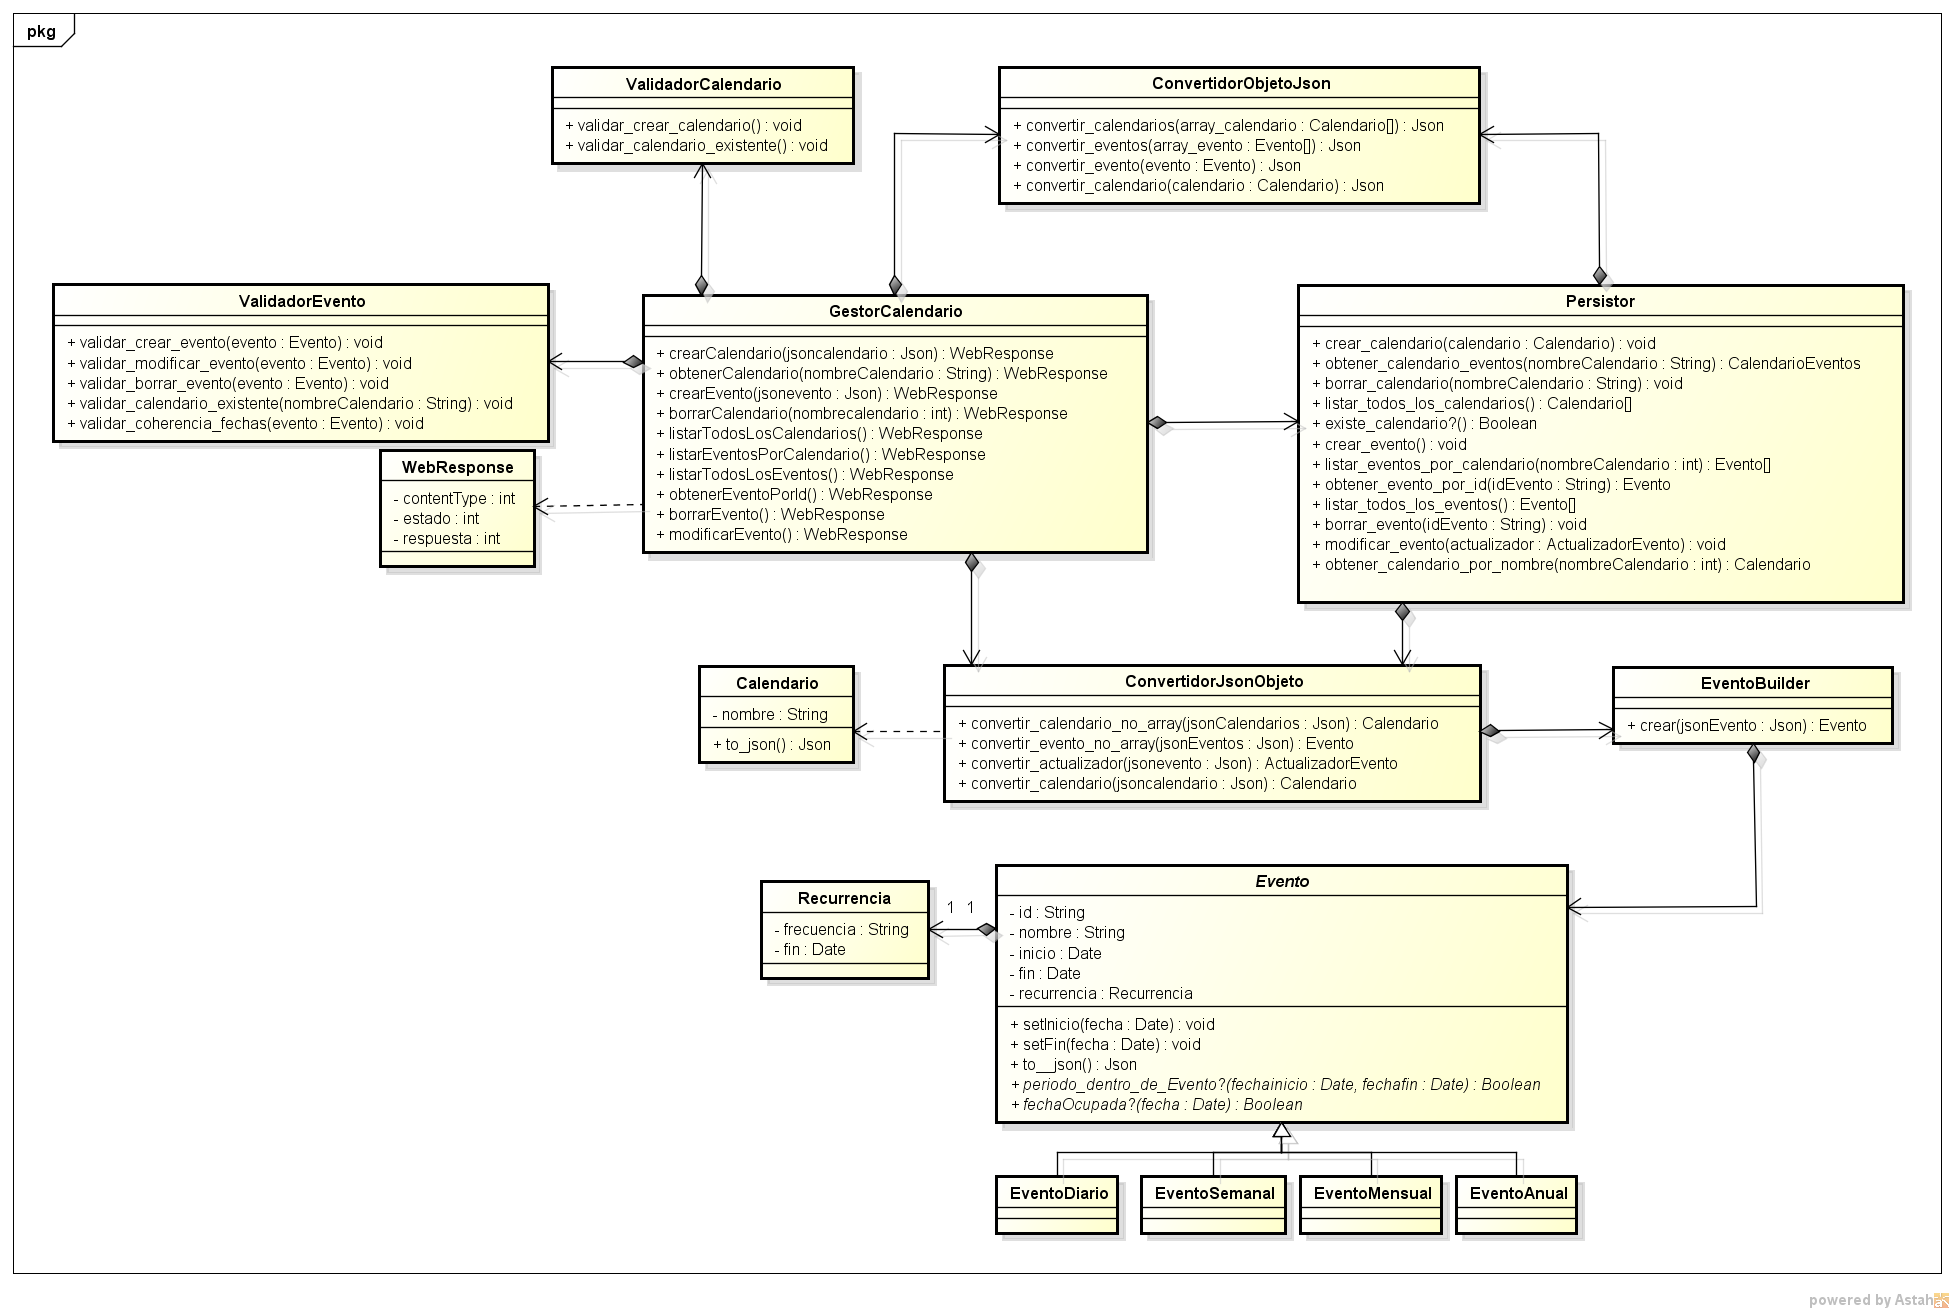
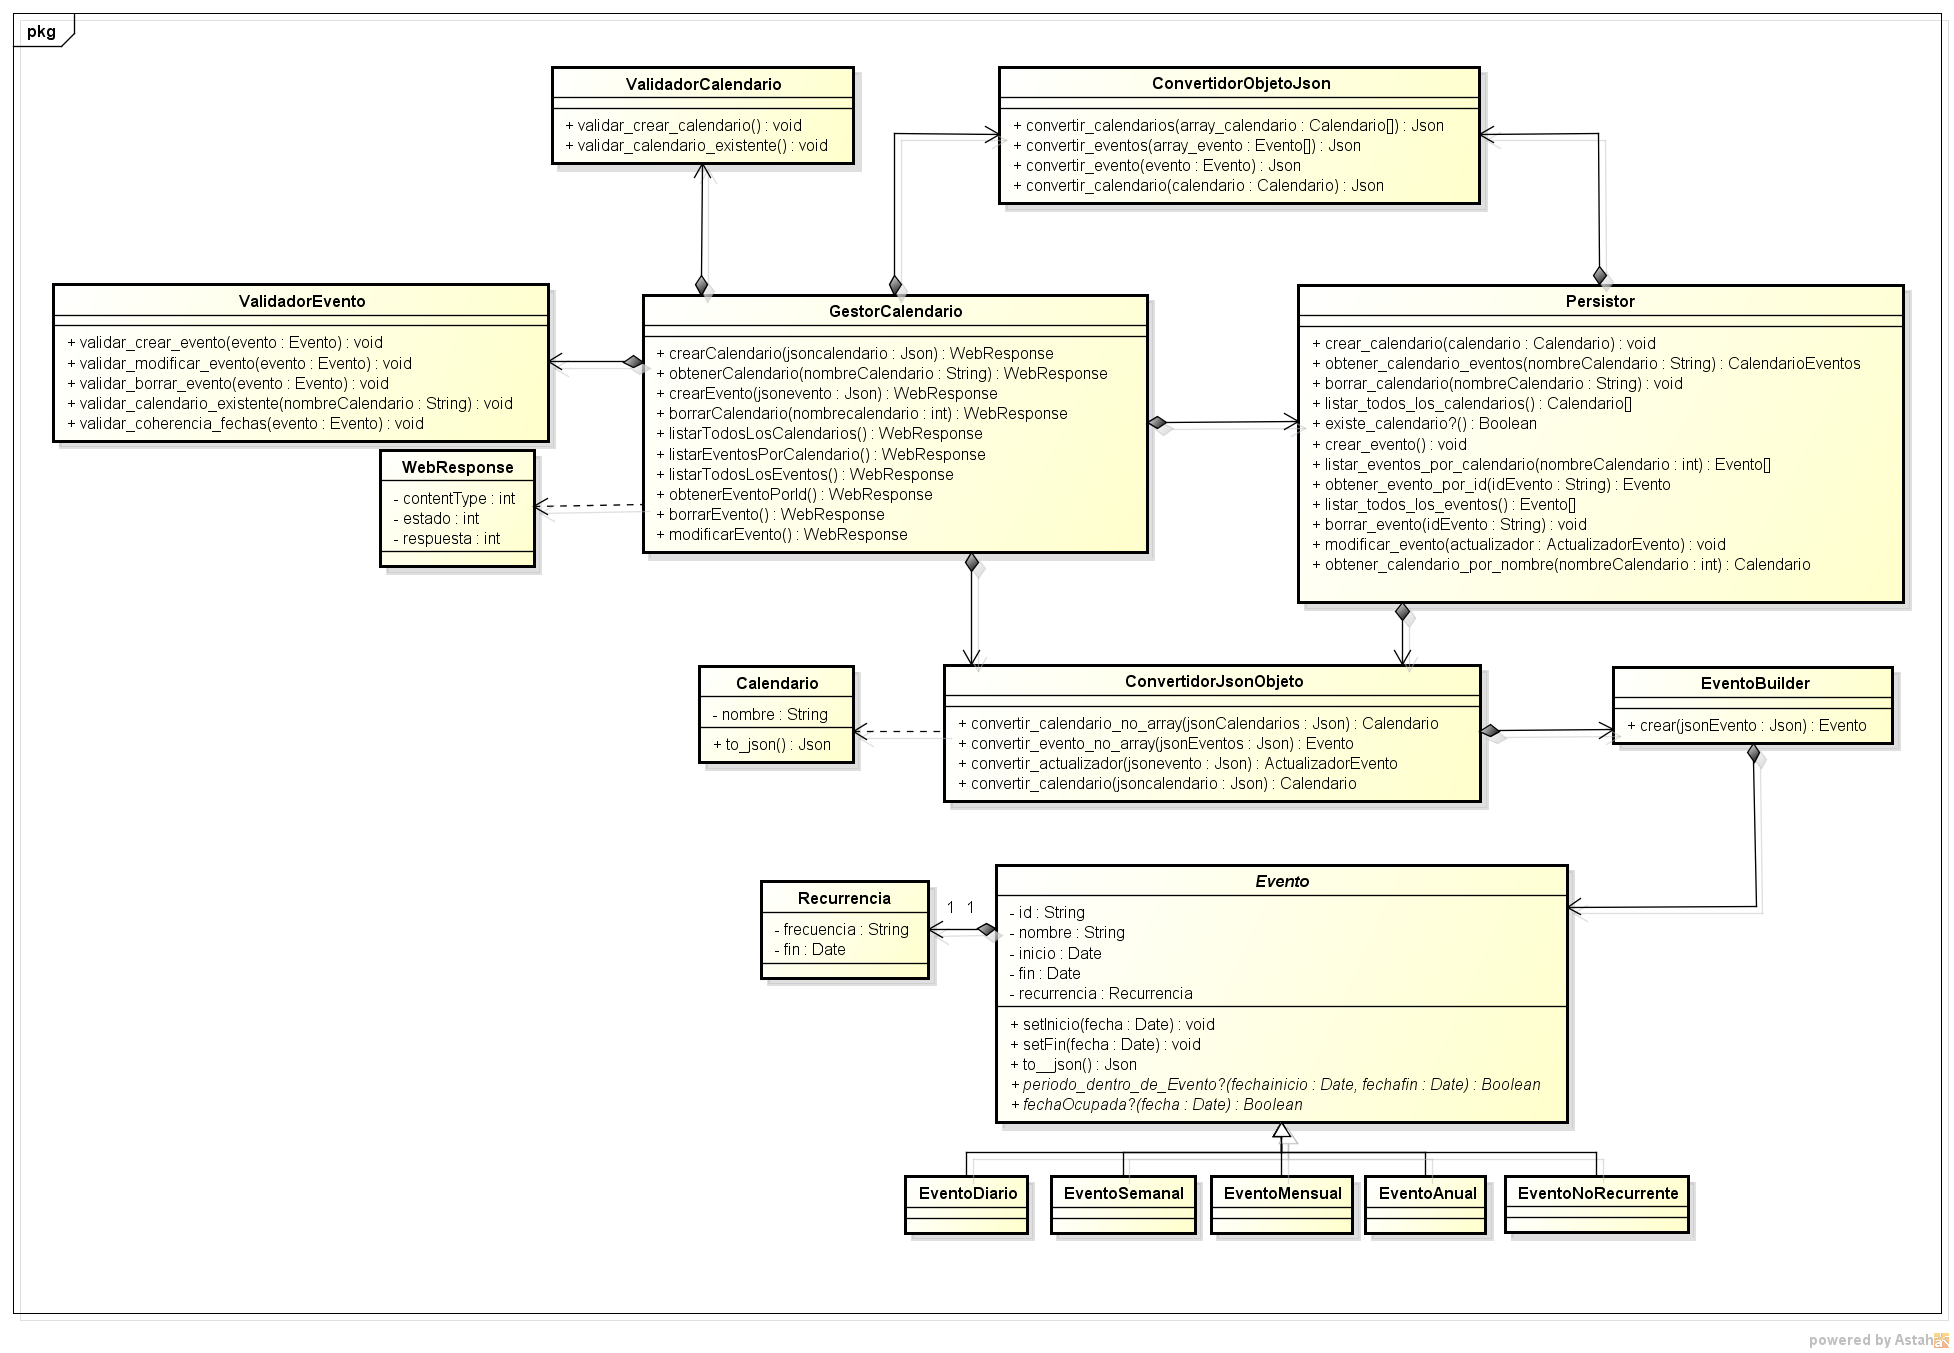
Modificado diagrama de clases y eliminadas variables sin usar y metodos

diff --git a/Calendario/model/convertidor_json_objeto.rb b/Calendario/model/convertidor_json_objeto.rb
@@ -60,19 +60,6 @@ class ConvertidorJsonObjeto
 
   end
 
-  def obtenerPropiedadDeJson(nombrePropiedad, json)
-    respuesta = nil;
-    
-    if json.nil? || json.empty? || ! es_json?(json)
-      return respuesta
-    end
-    
-    json_parseado = JSON.parse(json);
-    respuesta = json_parseado["nombre"]
-    
-    return respuesta
-  end
-
   def convertir_actualizador(jsonActualizador)
     respuesta = nil;
     

diff --git a/Calendario/model/validador_evento.rb b/Calendario/model/validador_evento.rb
@@ -13,15 +13,6 @@ class ValidadorEvento
     @builder   = builder
   end
 
-  def validar_modificar_evento(evento)
-    #TODO
-
-    #exista el evento
-    #superposicion de fechas
-
-    #(obtener evento por id, fichando las fechas por las que vengan que no sean null)
-  end
-
   def validar_existe_evento?(id)
 
     arrayEventos = @persistor.listar_todos_los_eventos()

diff --git a/Calendario/model/GestorCalendario.rb b/Calendario/model/GestorCalendario.rb
@@ -173,7 +173,6 @@ class GestorCalendario
 
       actualizadorEvento = @conversorJsonObjeto.convertir_actualizador(jsonActualizador)
       @validadorEvento.validar_existe_evento?(actualizadorEvento.getId)
-      evento = @persistor.obtener_evento_por_id(actualizadorEvento.getId)
 
       @validadorEvento.validar_recurrencia_actualizador(actualizadorEvento)
 

diff --git a/Calendario/model/persistor.rb b/Calendario/model/persistor.rb
@@ -67,7 +67,7 @@ class Persistor
 
   def crear_evento(evento)
     fullName = obtener_fullname(evento.getCalendario())
-    archivo = @file.open(fullName, "a+") do |f|     
+    archivo = @file.open(fullName, "a+") do |f|
       json = @convertidorObjetoJson.convertir_calendario(evento)
       f.puts(json)
       f.close      
